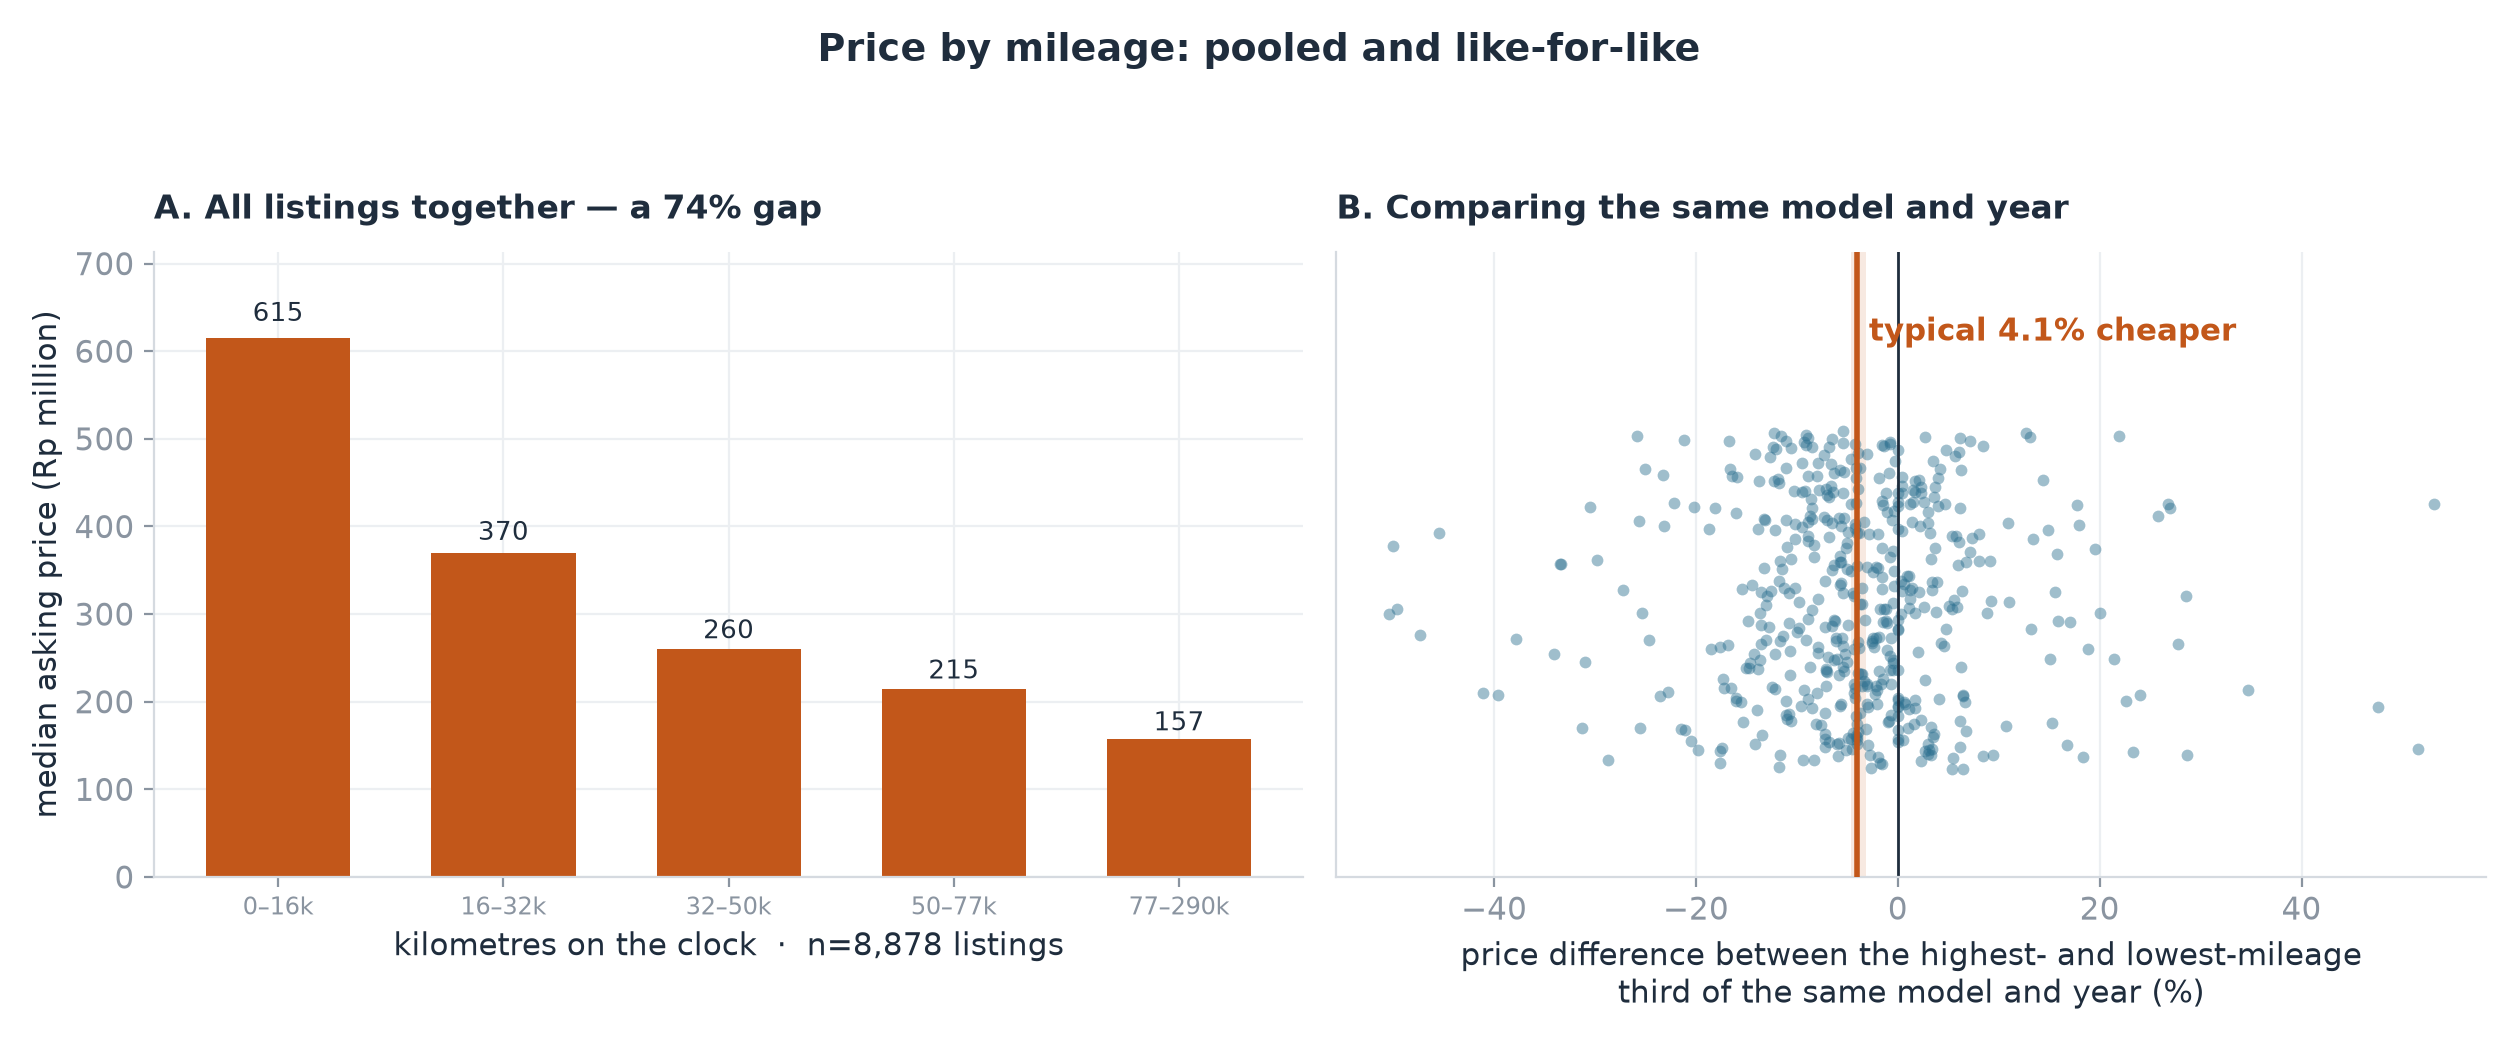
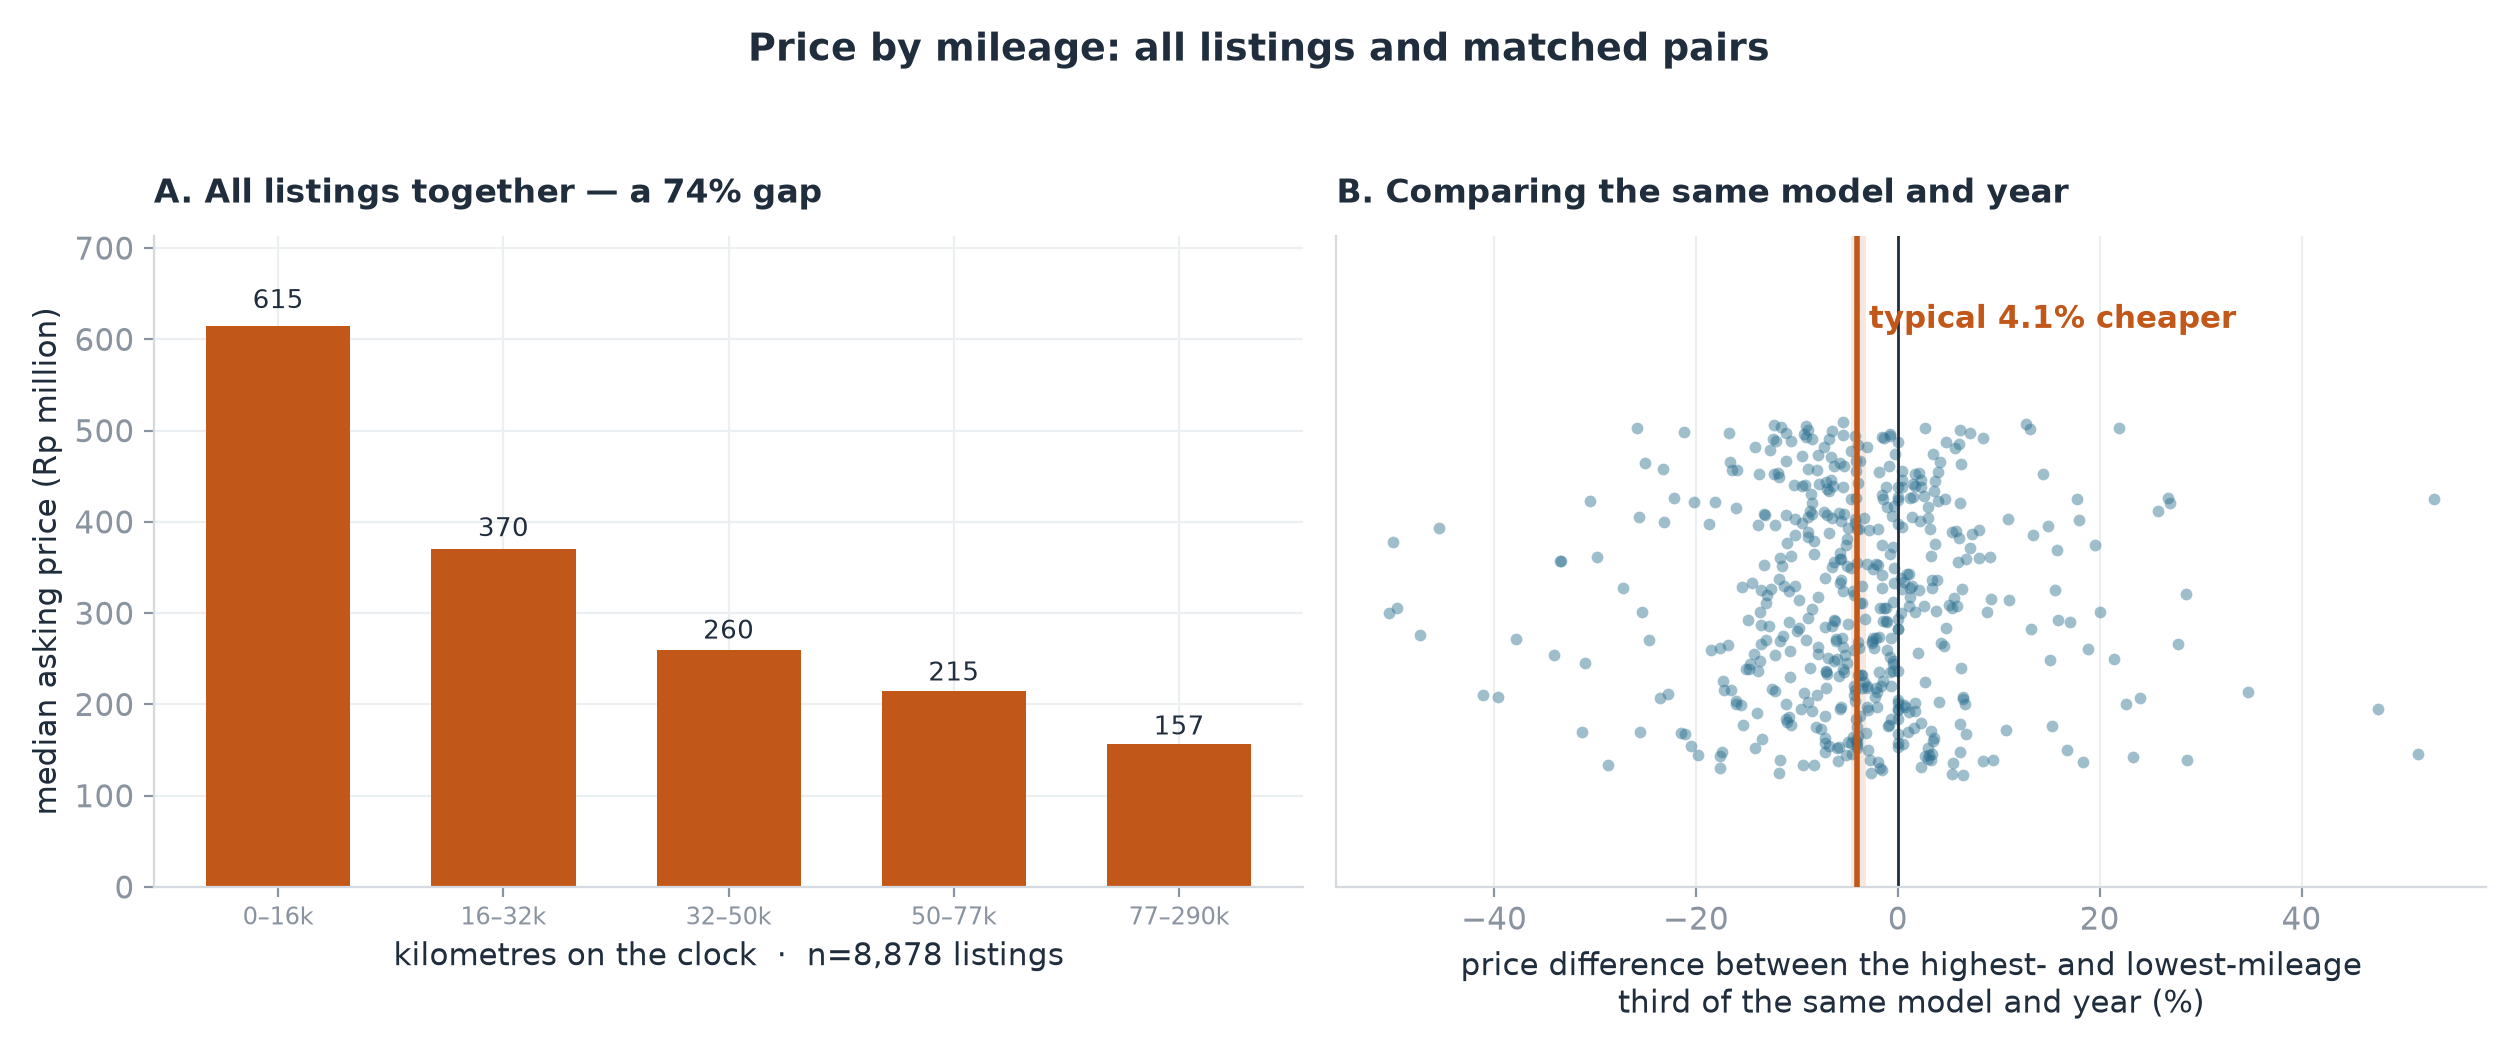
Tighten chart titles, plain wording for matched pairs and brand
Reduce the gap between each chart title and its plot. Replace 'pooled and like-for-like' with 'all listings and matched pairs', rename the feature chart to 'Effect of each detail on the price' and cut its two-line x-label down to one line, say 'brand' instead of 'badge', and shorten the model chart so it no longer runs down the page.

diff --git a/projects/02-used-car-market/index.html b/projects/02-used-car-market/index.html
@@ -3,7 +3,7 @@
 <head>
   <meta charset="UTF-8" />
   <meta name="viewport" content="width=device-width, initial-scale=1" />
-  <meta name="description" content="A regression model of 10,484 used-car listings in Indonesia: what the asking price really depends on, and why the badge matters far more than the specifications." />
+  <meta name="description" content="A regression model of 10,484 used-car listings in Indonesia: what the asking price really depends on, and why the brand matters far more than the specifications." />
   <meta name="theme-color" content="#0b0a09" />
   <meta name="author" content="Antoni" />
   <meta property="og:type" content="article" />
@@ -224,7 +224,7 @@
           <figure class="case-figure">
             <img
               src="images/07_location_and_brand.png"
-              alt="Left: province price gaps all within 0.7 percentage points. Right: the extra price each brand's badge adds beyond its specifications, from Land Rover plus 27.5 percent to Wuling minus 20.6 percent."
+              alt="Left: province price gaps all within 0.7 percentage points. Right: the extra price each brand adds beyond its specifications, from Land Rover plus 27.5 percent to Wuling minus 20.6 percent."
               loading="lazy" decoding="async" />
             <figcaption>
               <strong>Left:</strong> the same car and year, priced in the four provinces
@@ -233,7 +233,7 @@
               spans only ±2%: the bars look short because the differences really are that
               small. <strong>Right:</strong> how much more each brand asks than its
               cars&rsquo; specifications would suggest, for brands with at least 100
-              listings. Orange means the badge adds value; blue means the cars sell below
+              listings. Orange means the brand adds value; blue means the cars sell below
               what their specifications imply. The next chart does the same thing model by
               model.
             </figcaption>

diff --git a/projects/02-used-car-market/model.py b/projects/02-used-car-market/model.py
@@ -375,12 +375,12 @@ def main() -> None:
     axb.invert_yaxis()
     axb.axvline(0, color=INK, lw=1)
     axb.set_xlabel("extra price the badge adds, beyond the specifications (%)")
-    axb.set_title("B. Which badge carries a premium", loc="left", pad=12)
+    axb.set_title("B. Which brand carries a premium", loc="left", pad=12)
 
     fig.suptitle("Price by province, and the brand premium",
-                 x=0.5, y=0.975, ha="center", va="top",
+                 x=0.5, y=0.985, ha="center", va="top",
                  fontsize=13.5, fontweight="bold")
-    fig.tight_layout(rect=[0, 0, 1, 0.92])
+    fig.tight_layout(rect=[0, 0, 1, 0.95])
     fig.savefig(IMAGES / "07_location_and_brand.png", bbox_inches="tight",
                 pad_inches=0.16, facecolor="white")
     plt.close(fig)
@@ -388,17 +388,17 @@ def main() -> None:
 
     # ---- chart: model-level bargains ----
     pick = pd.concat([model_gap.head(9), model_gap.tail(9)]).sort_values("median")
-    fig, ax = plt.subplots(figsize=(11, 6.2))
+    fig, ax = plt.subplots(figsize=(12, 5.4))
     ypos = np.arange(len(pick))
     ax.barh(ypos, pick["median"],
             color=[COOL if v < 0 else ACCENT for v in pick["median"]], height=0.66)
     ax.set_yticks(ypos)
-    ax.set_yticklabels([f"{b} {m}" for b, m in pick.index], fontsize=9)
+    ax.set_yticklabels([f"{b} {m}" for b, m in pick.index], fontsize=8.5)
     ax.axvline(0, color=INK, lw=1)
     ax.set_xlabel("price compared with what the car's specifications suggest (%)")
     fig.suptitle("Price versus specifications, by model", x=0.5, y=0.985,
                  ha="center", va="top", fontsize=13.5, fontweight="bold")
-    fig.tight_layout(rect=[0, 0, 1, 0.93])
+    fig.tight_layout(rect=[0, 0, 1, 0.955])
     fig.savefig(IMAGES / "08_model_bargains.png", bbox_inches="tight",
                 pad_inches=0.16, facecolor="white")
     plt.close(fig)
@@ -426,11 +426,10 @@ def main() -> None:
             xerr=imp.importances_std[top], error_kw={"ecolor": "#c3cad1", "lw": 1})
     ax.set_yticks(np.arange(len(top)))
     ax.set_yticklabels([DISPLAY.get(names[i], names[i]) for i in top], fontsize=10)
-    ax.set_xlabel("how much worse the prediction gets without this detail\n"
-                  "(higher = the price depends on it more)")
-    fig.suptitle("How much each detail affects the price", x=0.5, y=0.985,
+    ax.set_xlabel("higher value = the price depends on it more")
+    fig.suptitle("Effect of each detail on the price", x=0.5, y=0.985,
                  ha="center", va="top", fontsize=13.5, fontweight="bold")
-    fig.tight_layout(rect=[0, 0, 1, 0.93])
+    fig.tight_layout(rect=[0, 0, 1, 0.955])
     IMAGES.mkdir(exist_ok=True)
     fig.savefig(IMAGES / "06_feature_importance.png", bbox_inches="tight",
                 pad_inches=0.16, facecolor="white")

diff --git a/projects/02-used-car-market/eda.py b/projects/02-used-car-market/eda.py
@@ -158,7 +158,7 @@ def chart_brand_retention(series: pd.DataFrame) -> pd.DataFrame:
     ax.set_xlim(0, loss_high.max() + 3.5)
     fig.suptitle("Value lost per year, by brand (%)", x=0.5, y=0.985,
                  ha="center", va="top", fontsize=13.5, fontweight="bold")
-    fig.tight_layout(rect=[0, 0, 1, 0.93])
+    fig.tight_layout(rect=[0, 0, 1, 0.955])
     save(fig, "01_brand_retention.png")
     return summary
 
@@ -199,9 +199,9 @@ def chart_retention_curves(df: pd.DataFrame, series: pd.DataFrame) -> None:
     axes[0, 0].set_xticks(range(1, 16, 2))
 
     fig.suptitle("Price index by model and vehicle age",
-                 x=0.5, y=0.975, ha="center", va="top",
+                 x=0.5, y=0.985, ha="center", va="top",
                  fontsize=13.5, fontweight="bold")
-    fig.tight_layout(rect=[0, 0, 1, 0.92])
+    fig.tight_layout(rect=[0, 0, 1, 0.95])
     save(fig, "02_retention_curves.png")
 
 
@@ -283,10 +283,10 @@ def chart_transmission(df: pd.DataFrame, cells: pd.DataFrame) -> None:
     ax2.set_xlabel("how much more the automatic version asks (%), same model and year")
     ax2.set_title("B. Comparing the same model and year", loc="left", pad=12)
 
-    fig.suptitle("Automatic versus manual: pooled and like-for-like",
-                 x=0.5, y=0.975, ha="center", va="top",
+    fig.suptitle("Automatic versus manual: all listings and matched pairs",
+                 x=0.5, y=0.985, ha="center", va="top",
                  fontsize=13.5, fontweight="bold")
-    fig.tight_layout(rect=[0, 0, 1, 0.92])
+    fig.tight_layout(rect=[0, 0, 1, 0.945])
     save(fig, "03_transmission_premium.png")
 
 
@@ -360,10 +360,10 @@ def chart_mileage(df: pd.DataFrame) -> dict:
     ax2.text(med + 1.2, 0.60, f"typical {abs(med):.1f}% cheaper", ha="left", va="center",
              fontsize=11, color=ACCENT, fontweight="bold")
 
-    fig.suptitle("Price by mileage: pooled and like-for-like",
-                 x=0.5, y=0.975, ha="center", va="top",
+    fig.suptitle("Price by mileage: all listings and matched pairs",
+                 x=0.5, y=0.985, ha="center", va="top",
                  fontsize=13.5, fontweight="bold")
-    fig.tight_layout(rect=[0, 0, 1, 0.92])
+    fig.tight_layout(rect=[0, 0, 1, 0.945])
     save(fig, "04_mileage_illusion.png")
     return {"gaps": gaps, "raw": raw}
 
@@ -405,8 +405,9 @@ def chart_structure(df: pd.DataFrame) -> None:
     axes[2].set_title("Brand origin", loc="left", pad=10)
 
     fig.suptitle("Marketplace composition",
-                 x=0.5, ha="center", fontsize=13.5, fontweight="bold")
-    fig.tight_layout(rect=[0, 0, 1, 0.90])
+                 x=0.5, y=0.985, ha="center", va="top",
+                 fontsize=13.5, fontweight="bold")
+    fig.tight_layout(rect=[0, 0, 1, 0.93])
     save(fig, "05_market_structure.png")
 
 
